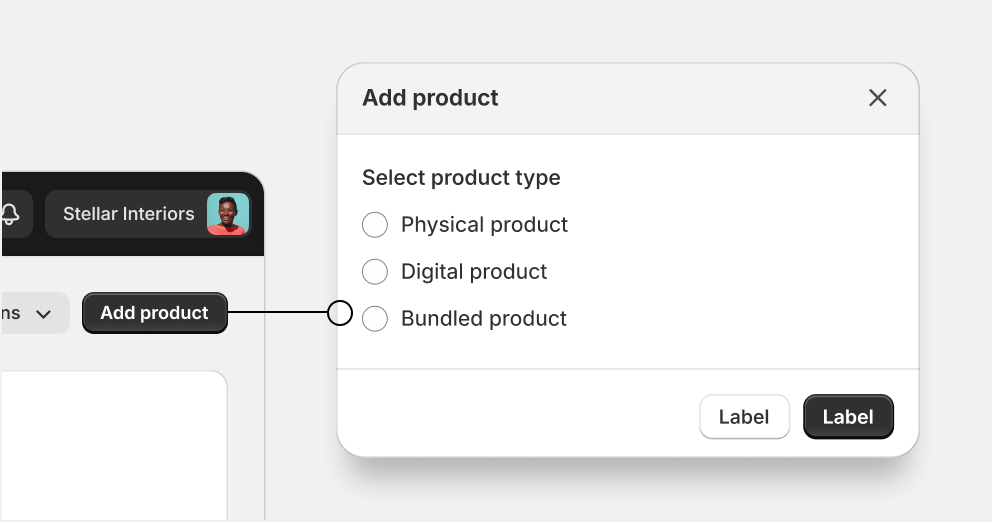
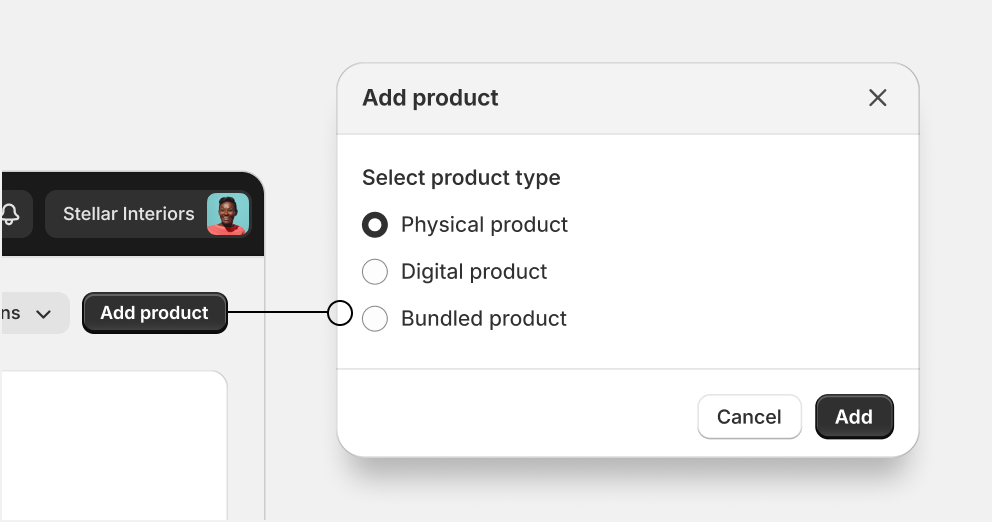
updated example

Changed region(s): [[0.7188, 0.7356, 0.875, 0.8582], [0.3438, 0.3985, 0.4062, 0.4598], [0.0938, 0.5517, 0.2188, 0.5824]]

diff --git a/.changeset/flat-fans-refuse.md b/.changeset/flat-fans-refuse.md
@@ -1,0 +1,5 @@
+---
+'polaris.shopify.com': patch
+---
+
+Updated common action guidelines add example
